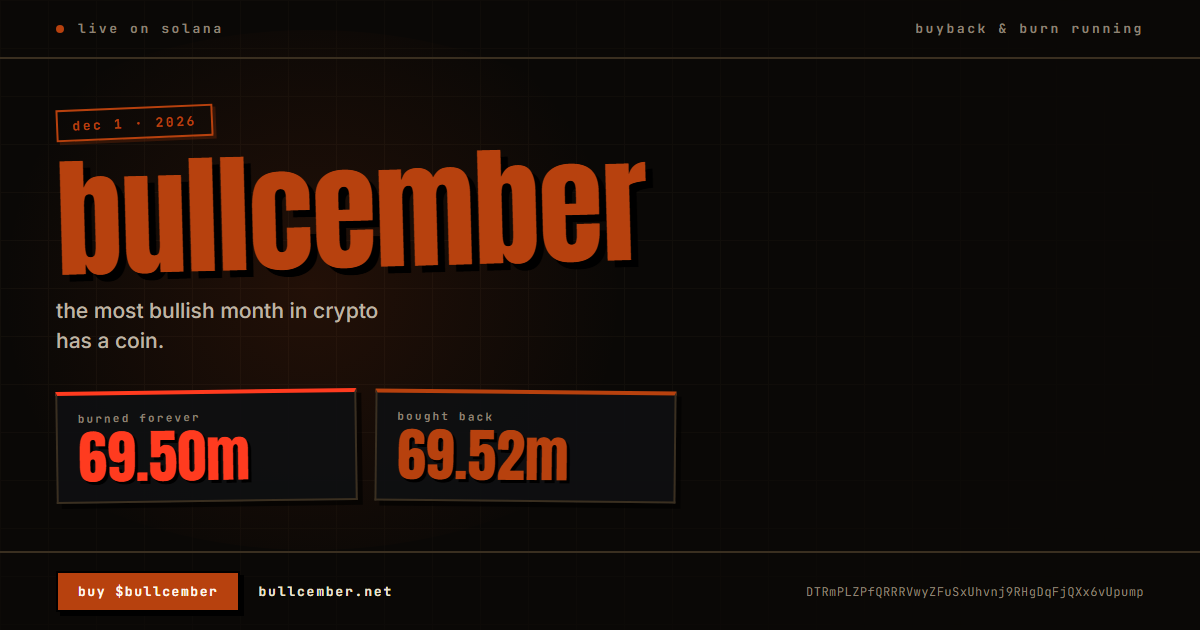
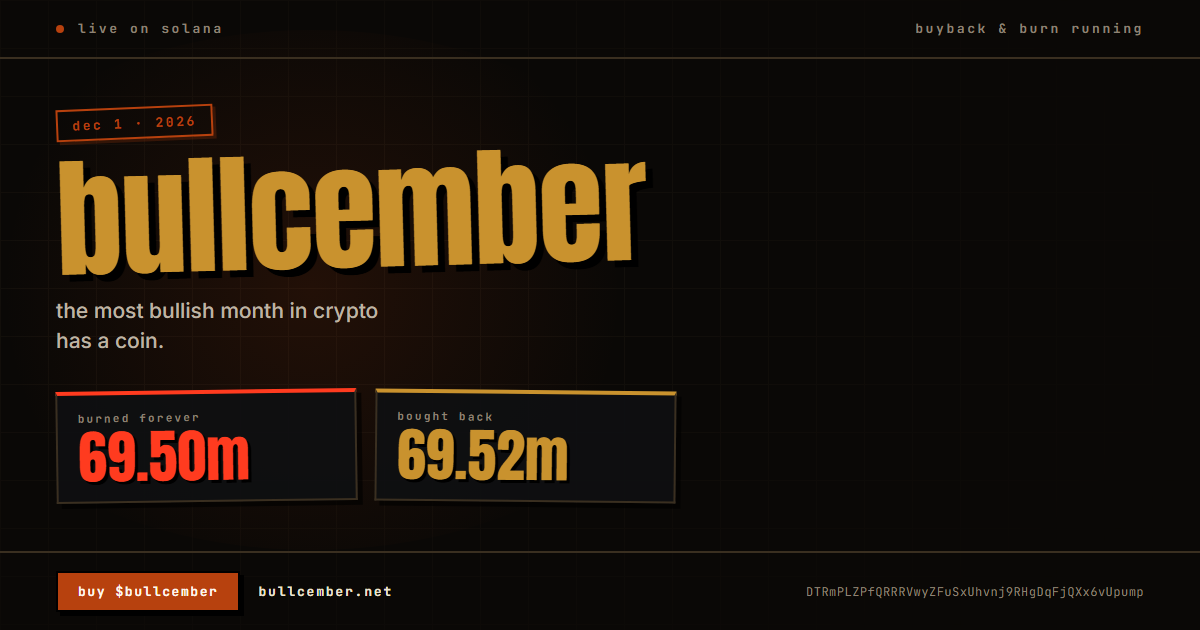
Move the display type from rust to ochre
The rust wordmark read heavy next to the ochre ticker; ochre was the better of
the two. Rust is not gone -- it keeps the buttons, the eyebrow stamps, the
stats-bar rule and every hover border, so it still carries the interactive and
structural layer. Ochre is now the display layer.

Three text usages moved. They were the only places the rust lead was ever used
as a font, since at 3.6:1 it was never allowed near small text:

  .hero-title          the wordmark
  .elive.buy .elive-v  the 99px "bought back" slab
  .grad-pct            the "bonded" label on the curve bar

Two things fall out of this that are worth more than the colour change.

The wordmark now sits on exactly the same colour as .highlight, so the hero and
every section title finally agree instead of being two different oranges. It
also went from 3.6:1 to 7.27:1 against --bg -- double the contrast, on the
largest text on the page.

And it fixes the soft spot recorded when the palette landed: --burn (hue 8deg)
against the old rust (hue 18deg) were only 10deg apart, and those two colours
label the side-by-side "burned forever" and "bought back" tiles -- two numbers
that are currently 69.50m and 69.52m. Ochre is at 39deg, so the separation goes
from 10deg to 31deg and the two stop being distinguishable only by brightness.

Also matched .elive.buy's 4px stripe to its own number. .elive.burn already
paired stripe to value; leaving the stripe rust under an ochre number made that
one tile disagree with itself.
[…]

Changed region(s): [[0.0308, 0.2413, 0.555, 0.4524], [0.3083, 0.6635, 0.4933, 0.7841], [0.3083, 0.6032, 0.555, 0.6333]]

diff --git a/style.css b/style.css
@@ -1957,7 +1957,10 @@ body::after {
   transform: rotate(-1.4deg);
   transform-origin: left center;
   margin-bottom: var(--s-6);
-  color: var(--signal);   /* display type — full strength, not the tint */
+  /* Ochre, not the rust lead. Also lands the wordmark on the same colour as
+     .highlight, so the hero and every section title now agree. And it is
+     7.3:1 against --bg where the rust was 3.6:1 — double the contrast. */
+  color: var(--accent);
   text-shadow: 6px 6px 0 #000, 12px 12px 0 rgba(0,0,0,0.55);
 }
 
@@ -2203,7 +2206,9 @@ body::after {
   overflow: hidden;
 }
 .elive.burn   { border-top: 4px solid var(--burn);   transform: rotate(-0.8deg); }
-.elive.buy    { border-top: 4px solid var(--signal); transform: rotate(0.6deg); }
+/* Stripe follows its own number, the way .elive.burn does — an ochre value
+   under a rust stripe made one tile disagree with itself. */
+.elive.buy    { border-top: 4px solid var(--accent); transform: rotate(0.6deg); }
 
 /* the emoji stops competing with the number */
 .elive-ico { font-size: 1.1rem; opacity: 0.75; margin-bottom: var(--s-2); }
@@ -2228,8 +2233,13 @@ body::after {
   color: var(--burn);
   text-shadow: 4px 4px 0 #000;
 }
+/* Ochre rather than rust, and this one is not only cosmetic: it sits directly
+   beside .elive.burn, and --burn (#FF3B1F, hue 8deg) against the old rust
+   (hue 18deg) were only 10deg apart — the measured soft spot of this palette.
+   Ochre is at 39deg, so "burned forever" and "bought back" are now 31deg apart
+   and read as two different things at a glance. */
 .elive.buy .elive-v {
-  color: var(--signal);   /* 99px slab — display, full strength */
+  color: var(--accent);   /* 99px slab — display, full strength */
   text-shadow: 4px 4px 0 #000;
 }
 .elive-sub {
@@ -2319,7 +2329,7 @@ body::after {
   font-family: var(--f-slab);
   font-weight: 400;
   font-size: 1.8rem;
-  color: var(--signal);   /* 29px slab — display, full strength */
+  color: var(--accent);   /* 29px slab — display, full strength */
   letter-spacing: 0;
 }
 .grad-meta { color: var(--muted); }

diff --git a/index.html b/index.html
@@ -16,7 +16,7 @@
   <meta property="og:url" content="https://bullcember.net" />
   <meta property="og:title" content="$BULLCEMBER: The Bullish December, Now on Solana" />
   <meta property="og:description" content="$BULLCEMBER just launched on Solana. The most bullish month in crypto finally has a coin. Zero taxes, no VCs, pure community. Q4 2026 is coming. Be ready for December." />
-  <meta property="og:image" content="https://bullcember.net/og-image.png?v=c68276c3" />
+  <meta property="og:image" content="https://bullcember.net/og-image.png?v=949d4eb8" />
   <meta property="og:image:width" content="1200" />
   <meta property="og:image:height" content="630" />
   <!-- Twitter Card -->
@@ -24,7 +24,7 @@
   <meta name="twitter:site" content="@bullcembersol" />
   <meta name="twitter:title" content="$BULLCEMBER: The Bullish December, Now on Solana" />
   <meta name="twitter:description" content="$BULLCEMBER just launched on Solana. The most bullish month in crypto finally has a coin. Zero taxes, no VCs, pure community. Q4 2026 is coming. Be ready for December." />
-  <meta name="twitter:image" content="https://bullcember.net/og-image.png?v=c68276c3" />
+  <meta name="twitter:image" content="https://bullcember.net/og-image.png?v=949d4eb8" />
   <link rel="stylesheet" href="style.css" />
   <link rel="preconnect" href="https://fonts.googleapis.com" />
   <link rel="preconnect" href="https://fonts.gstatic.com" crossorigin />
